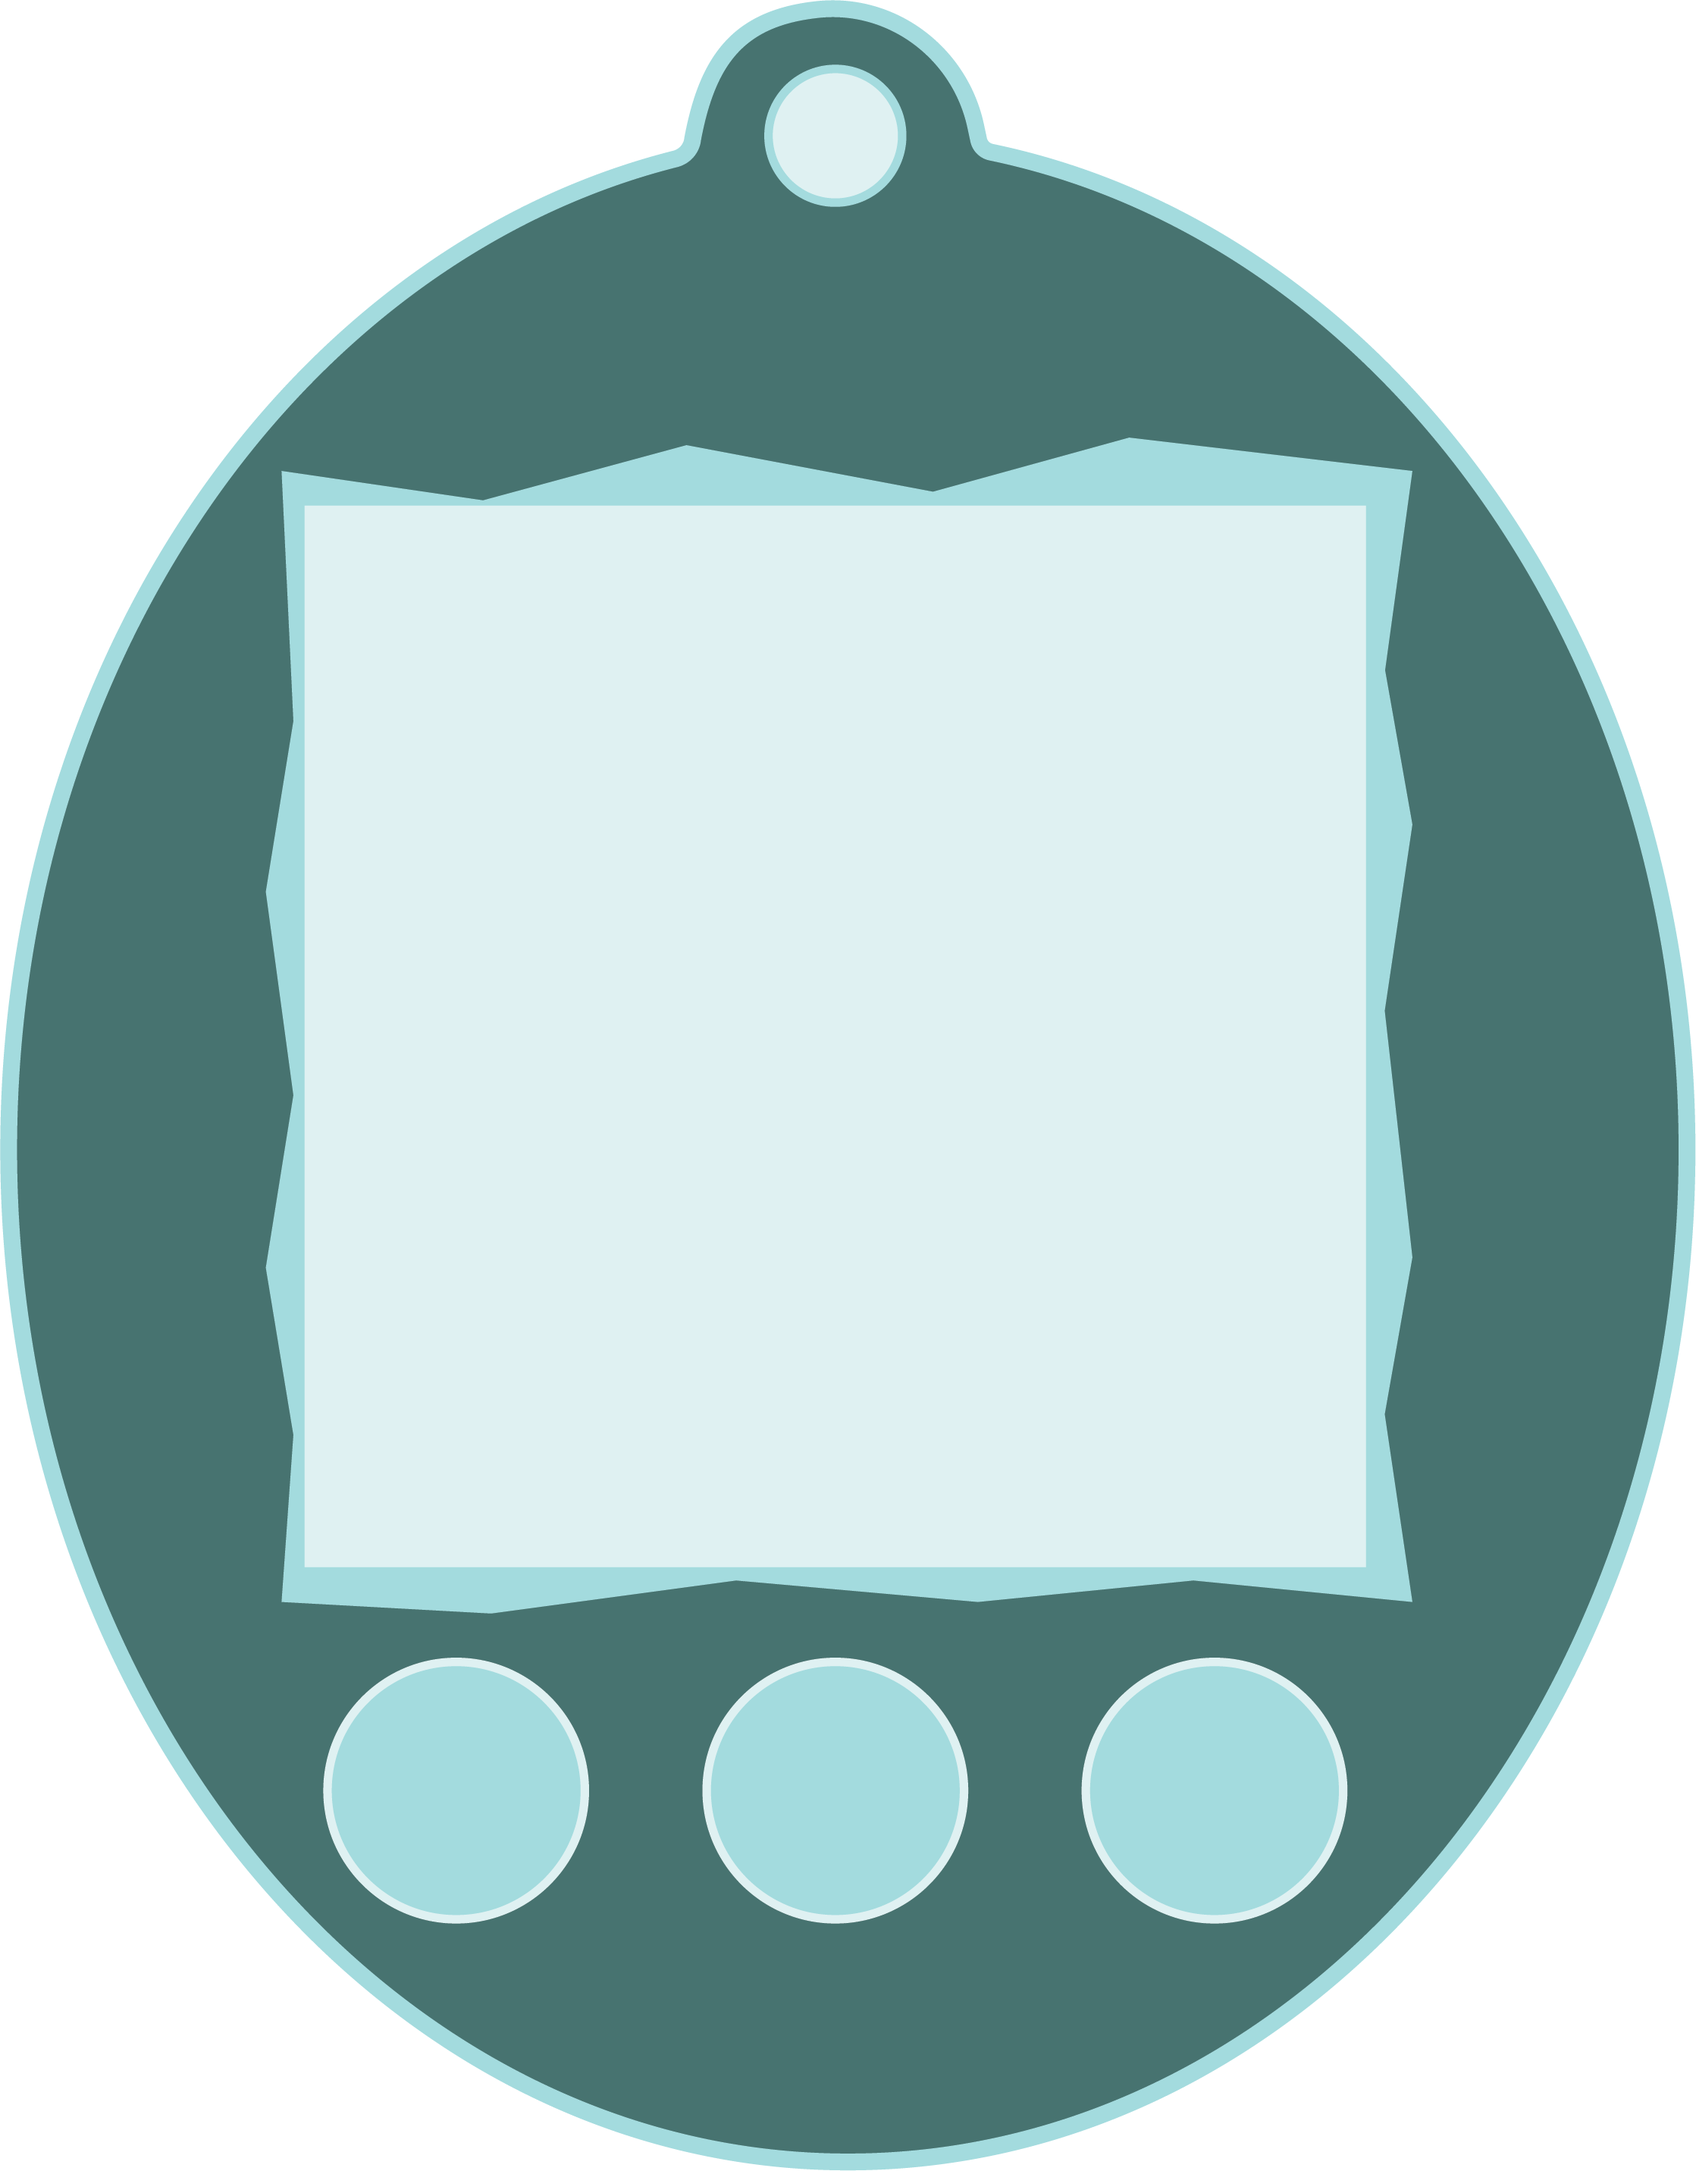
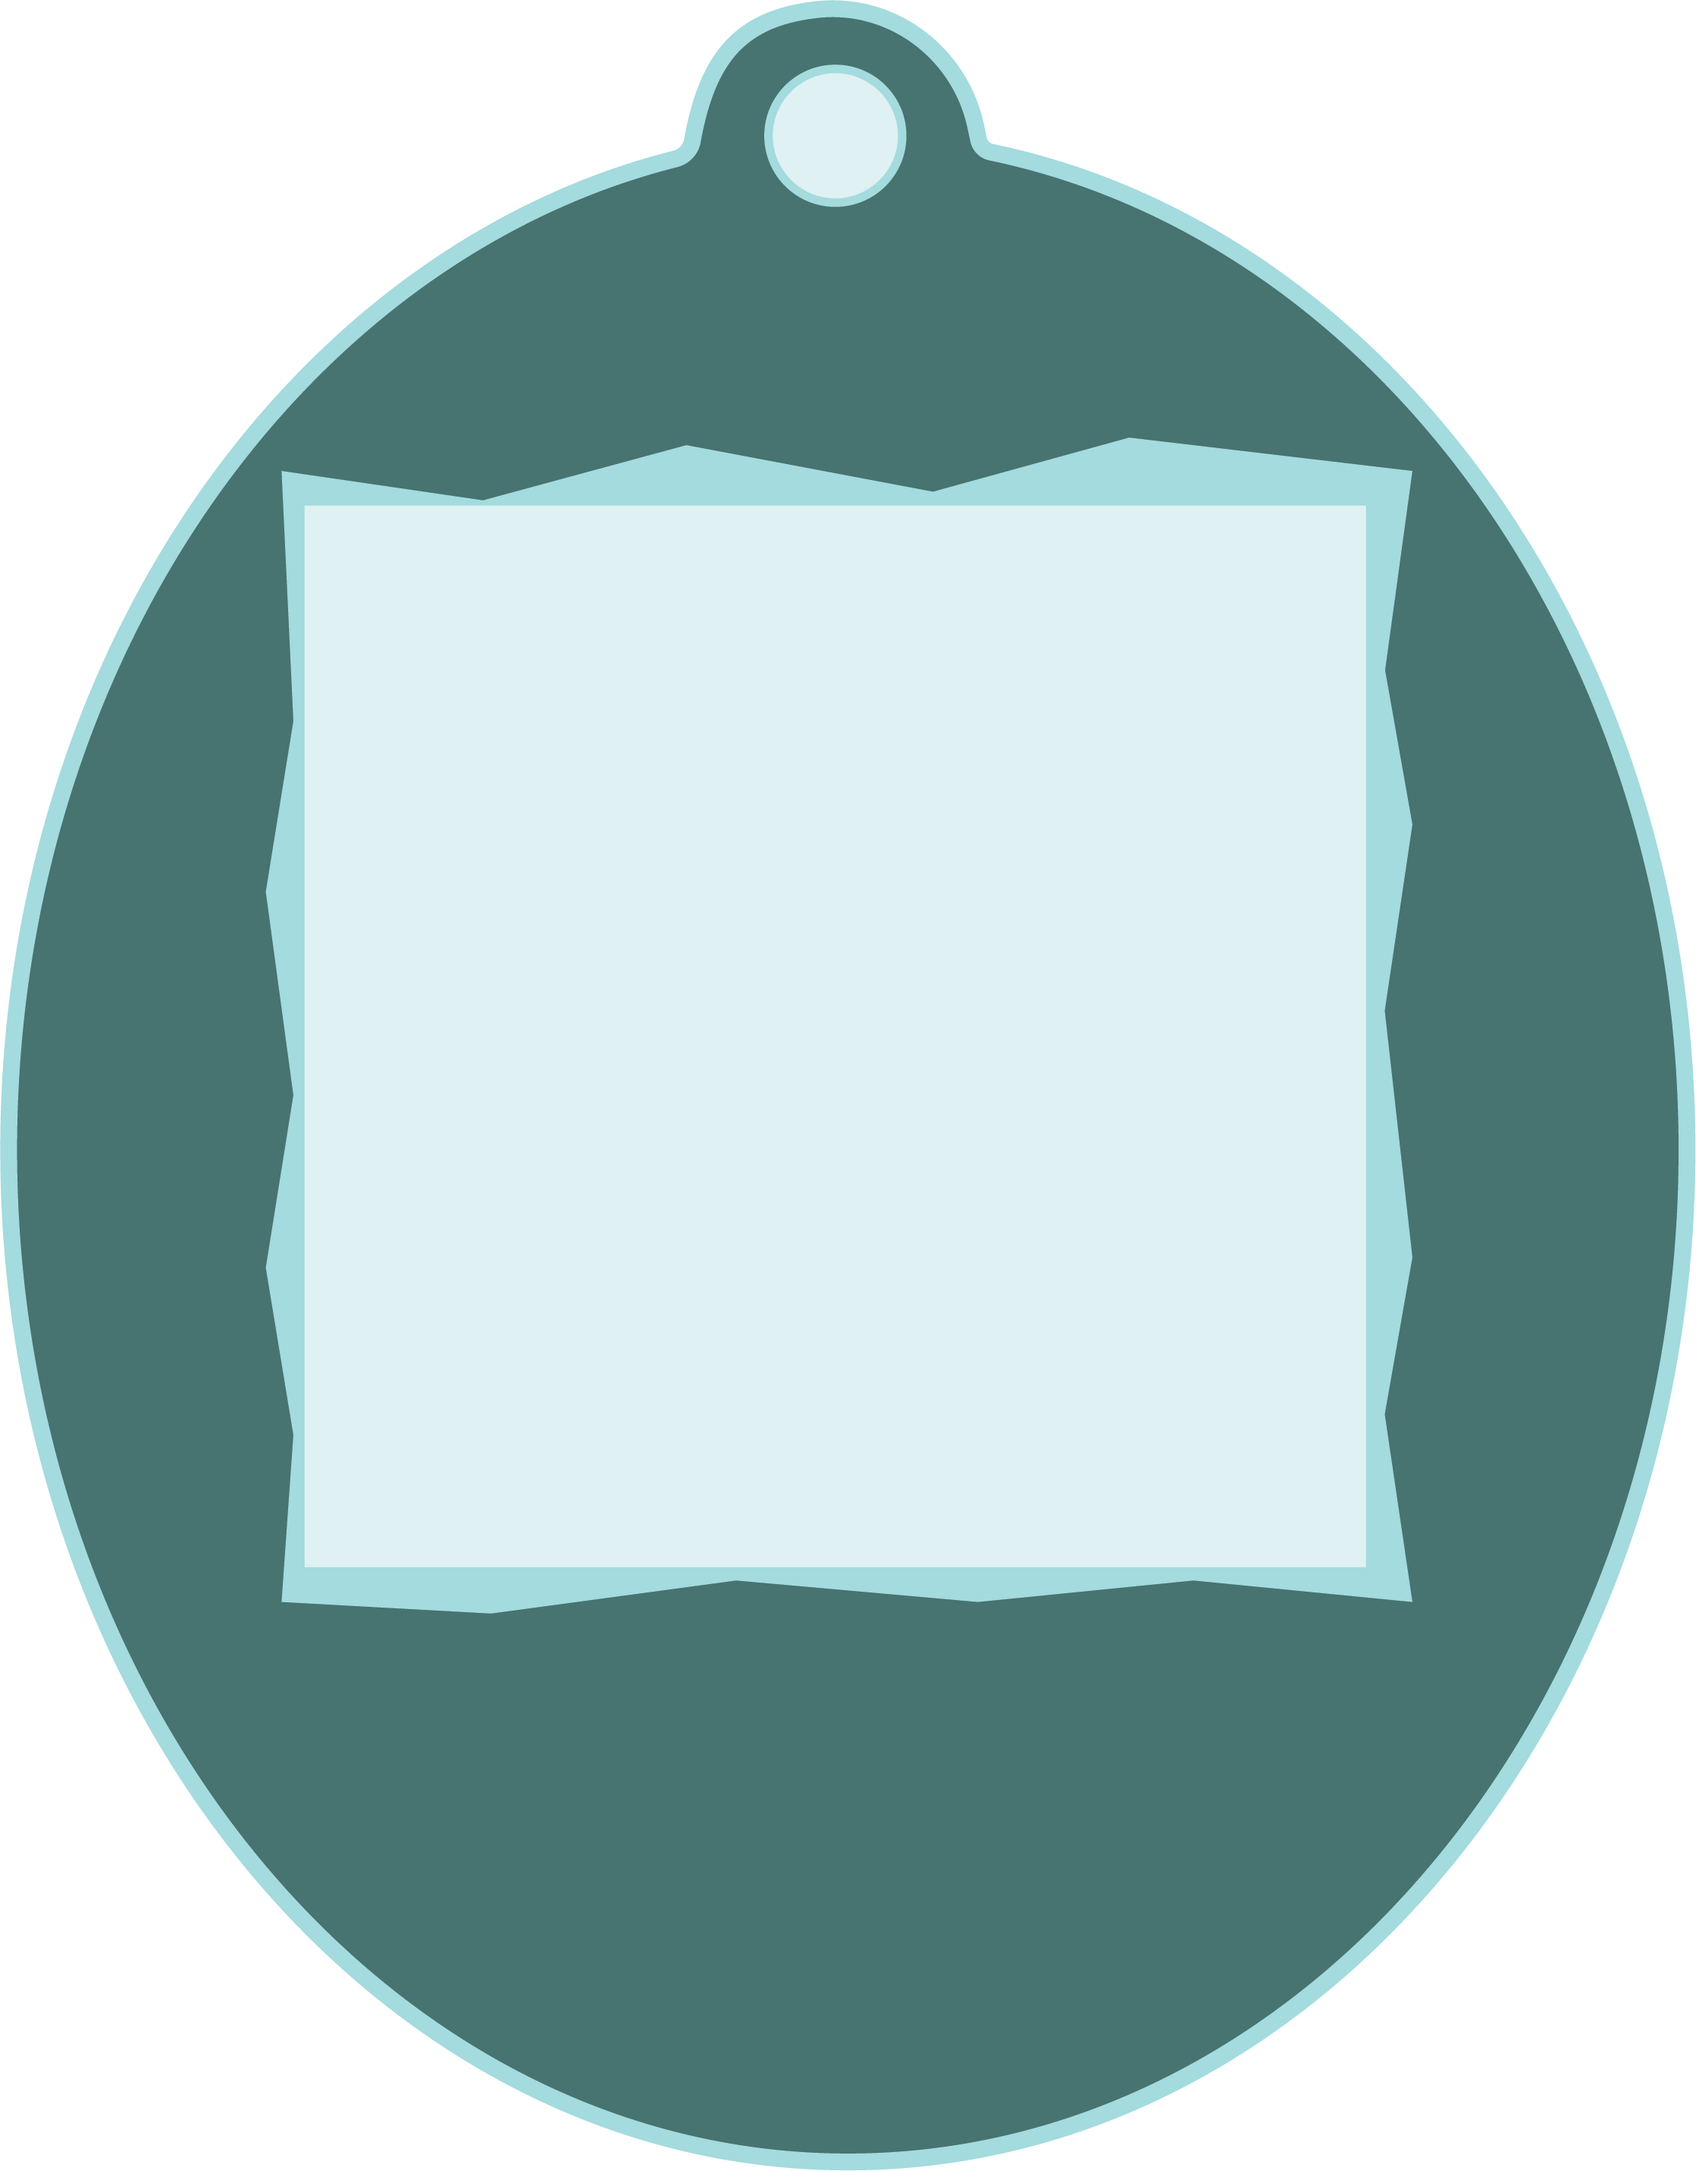
added user buttons

Changed region(s): [[0.401, 0.7461, 0.5861, 0.9015], [0.6169, 0.7461, 0.802, 0.9015], [0.1851, 0.7461, 0.3701, 0.9015]]

diff --git a/main.css b/main.css
@@ -63,7 +63,7 @@ h1 {
 /*COME BACK TO THIS*/
 progress[value] {
   -webkit-appearance: none;
-  width: 10vw;
+  width: 12vw;
   height: 2.5vh;
   margin-bottom: 10px;
   margin-left: 20px;
@@ -99,6 +99,8 @@ progress[value]::-webkit-progress-value {
 #gameplay {
 	display: flex;
 	justify-content: center;
+	width: 350px;
+	justify-content: space-between;
 }
 
 #sleep{
@@ -106,50 +108,43 @@ progress[value]::-webkit-progress-value {
 	color: #687271;
   	cursor: pointer;
 	border: none;
-/*	position: relative;
-	margin-top: -420px;*/
-/*	margin-right: 40px;*/
+	position: relative;
+	bottom: 240px;
 }
-/*
+
 #sleep:hover{
-	color: #687271;
-	background-color: #96f4EE;
-}*/
+	transition: 0.02s;
+	opacity: 70%;
+}
 
 #play{
 	font-size: 20px;
 	color: #687271;
   	cursor: pointer;
 	border: none;
-/*	position: relative;
-	margin-top: -420px;*/
-/*	margin-right: 40px;*/
-/*	margin-top: -228px;
-	margin-right: 40px;*/
+	position: relative;
+	bottom: 260px;
 }
 
-/*#play:hover{
-	color: #687271;
-	background-color: #96f4EE;
-}*/
+#play:hover{
+	transition: 0.02s;
+	opacity: 70%; 
+}
 
 #feed{
 	font-size: 20px;
 	color: #687271;
   	cursor: pointer;
-	border: none;
-/*	position: relative;
-	margin-top: -420px;*/
-/*	margin-right: 40px;*/
-/*	margin-top: -228px;
-	margin-right: 40px;*/
+	border-radius: 100%;
+	position: relative;
+	bottom: 260px;
 }
 
-/*#feed:hover{
-	color: #687271;
-	background-color: #96f4EE;
+#feed:hover{
+	transition: 0.02s;
+	opacity: 70%;
 }
-*/
+
 
 /* RIGHT SIDE CONTENT */
 
@@ -173,8 +168,8 @@ progress[value]::-webkit-progress-value {
 	color: #687271;
 	background-color: #DEF2F1;
   	cursor: pointer;
-/*  	margin-right: 10px;
-  	margin-top: 5px;*/
+  	margin-top: 5px;
+  	padding: 0;
 }
 
  #hatch:hover {

diff --git a/index.html b/index.html
@@ -35,12 +35,12 @@
 
 		<!-- Middle Content -->
 		<section id="middle">
-			<img src="tamagotchi.png" alt="" width="600px" id="device">
+			<img src="tamagotchi.png" alt="device" width="600px" id="device">
 			<h2>Name</h2>
 			<div id="gameplay">
-				<button id="feed">FEED</button>
-				<button id="sleep">SLEEP</button>
-				<button id="play">PLAY</button>
+				<img src="feedbtn.png" alt="feed button" width="100px" id="feed">
+				<img src="sleepbtn.png" alt="sleep button" width="100px" id="sleep">
+				<img src="playbtn.png" alt="play button" width="100px" id="play">
 			</div>
 		</section>
 
